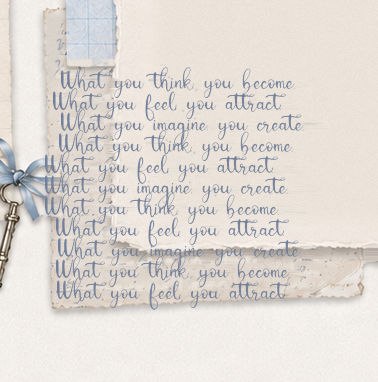
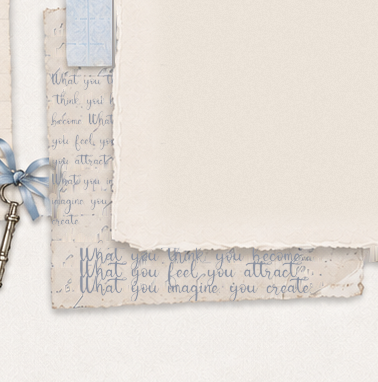
Link AI Research, and keep the quote on its own paper
The AI Research tag now opens the seizure-protocols repo.

The fragment's quote was written straight across the blank sheet in the
middle of that collage, over its torn edge and out past the strip below it.
Aashvi's original writes on two surfaces only: the back page, whose visible
sliver runs down the left, and the strip under the front sheet's tear. The
sheet in the middle is blank paper.

Rebuilt from her original crop with that geometry: the quote runs down the
back page the way handwriting would, each line carrying on where the last
left off and disappearing under the sheet in front, then the three sentences
sit whole on the bottom strip, inside the tear. Nothing is drawn on the front
sheet.

Measured rather than guessed - the fragment's visible footprint was captured
by flooding its slot with colour and reading back what survived the papers
layered over it: a 66px column down to y=240, full width below.

Claude-Session: https://claude.ai/code/session_01HwHnB6ZvdvjAvLg4jAqUHh

Changed region(s): [[0.1164, 0.0864, 0.8148, 0.8063], [0.291, 0.0, 0.3201, 0.1728], [0.9603, 0.6335, 1.0, 0.6911]]

diff --git a/index.html b/index.html
@@ -787,6 +787,7 @@ const PROJECTS = [
    title:"Brain Age Calculator", desc:"Estimates brain age from<br>structural MRI measurements."},
 
   {id:"airesearch", laceImg:"assets/work/lace-airesearch.png",
+   href:"https://github.com/aashvigeddam/seizure-protocols",
    lace:{x: 606, y: 576, w: 340, h: 244},
    card:null, pin:null,
    label:{x: 690, y: 788, w: 190, h:  78, padTop: 12},
